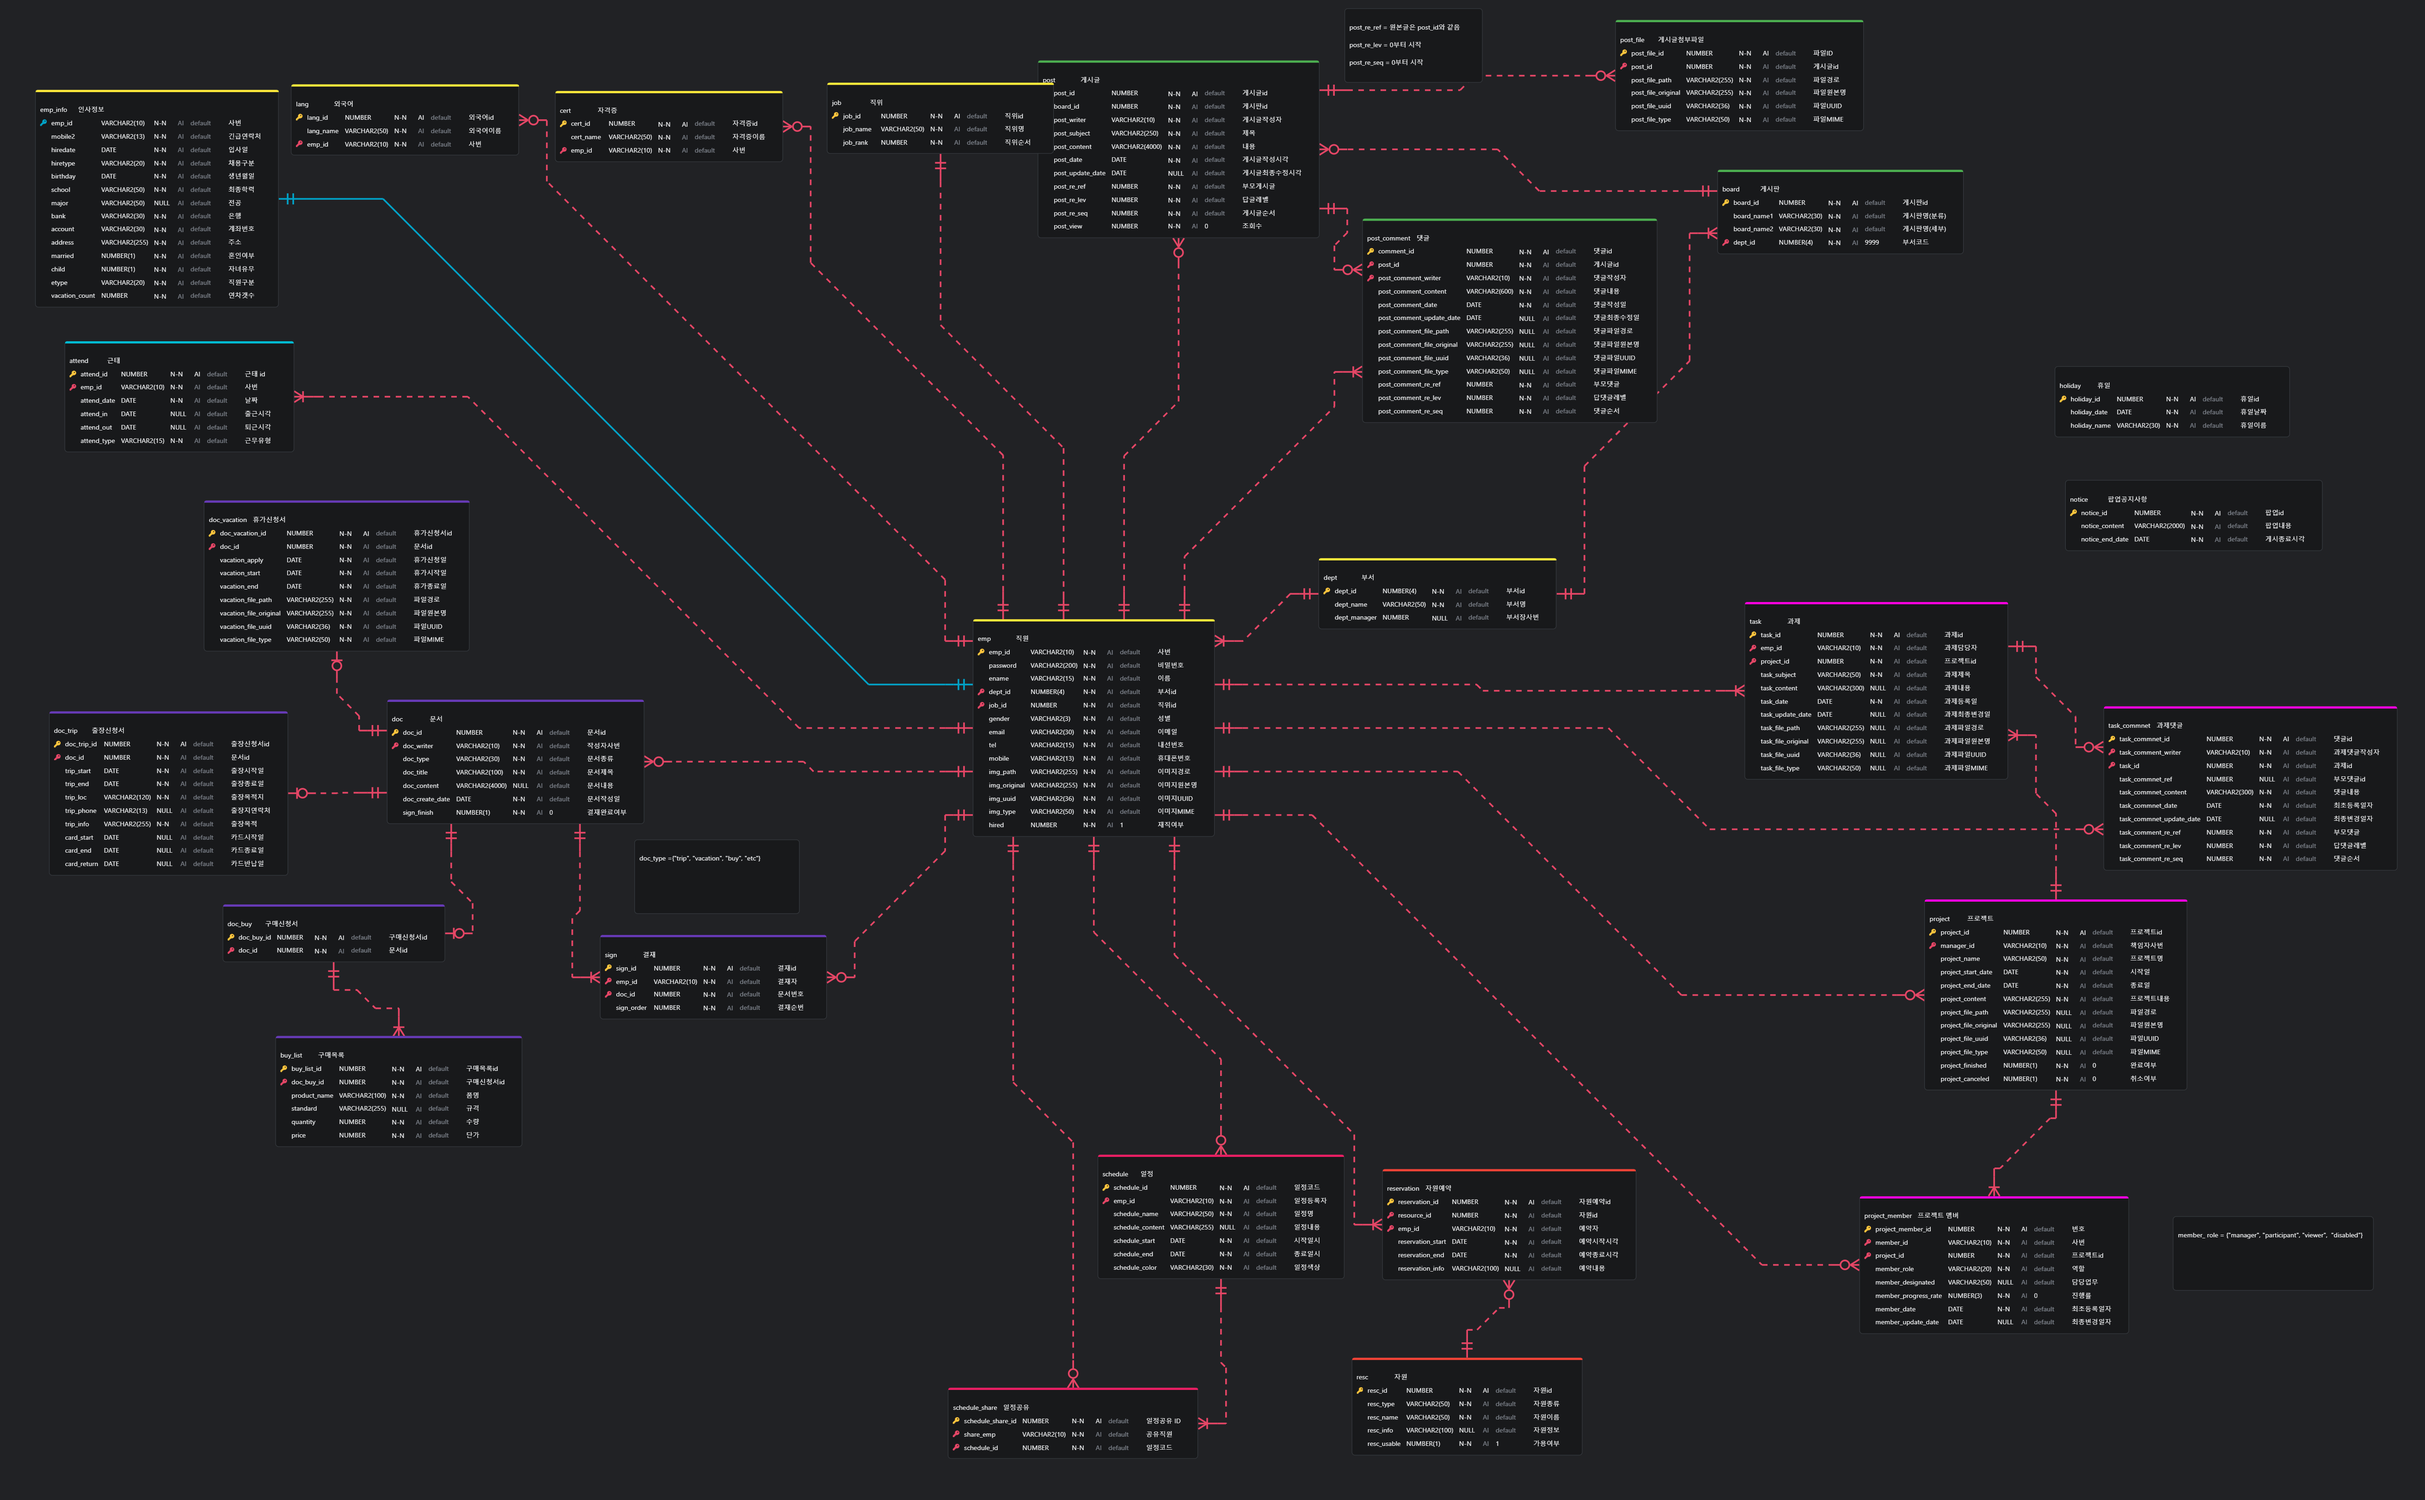
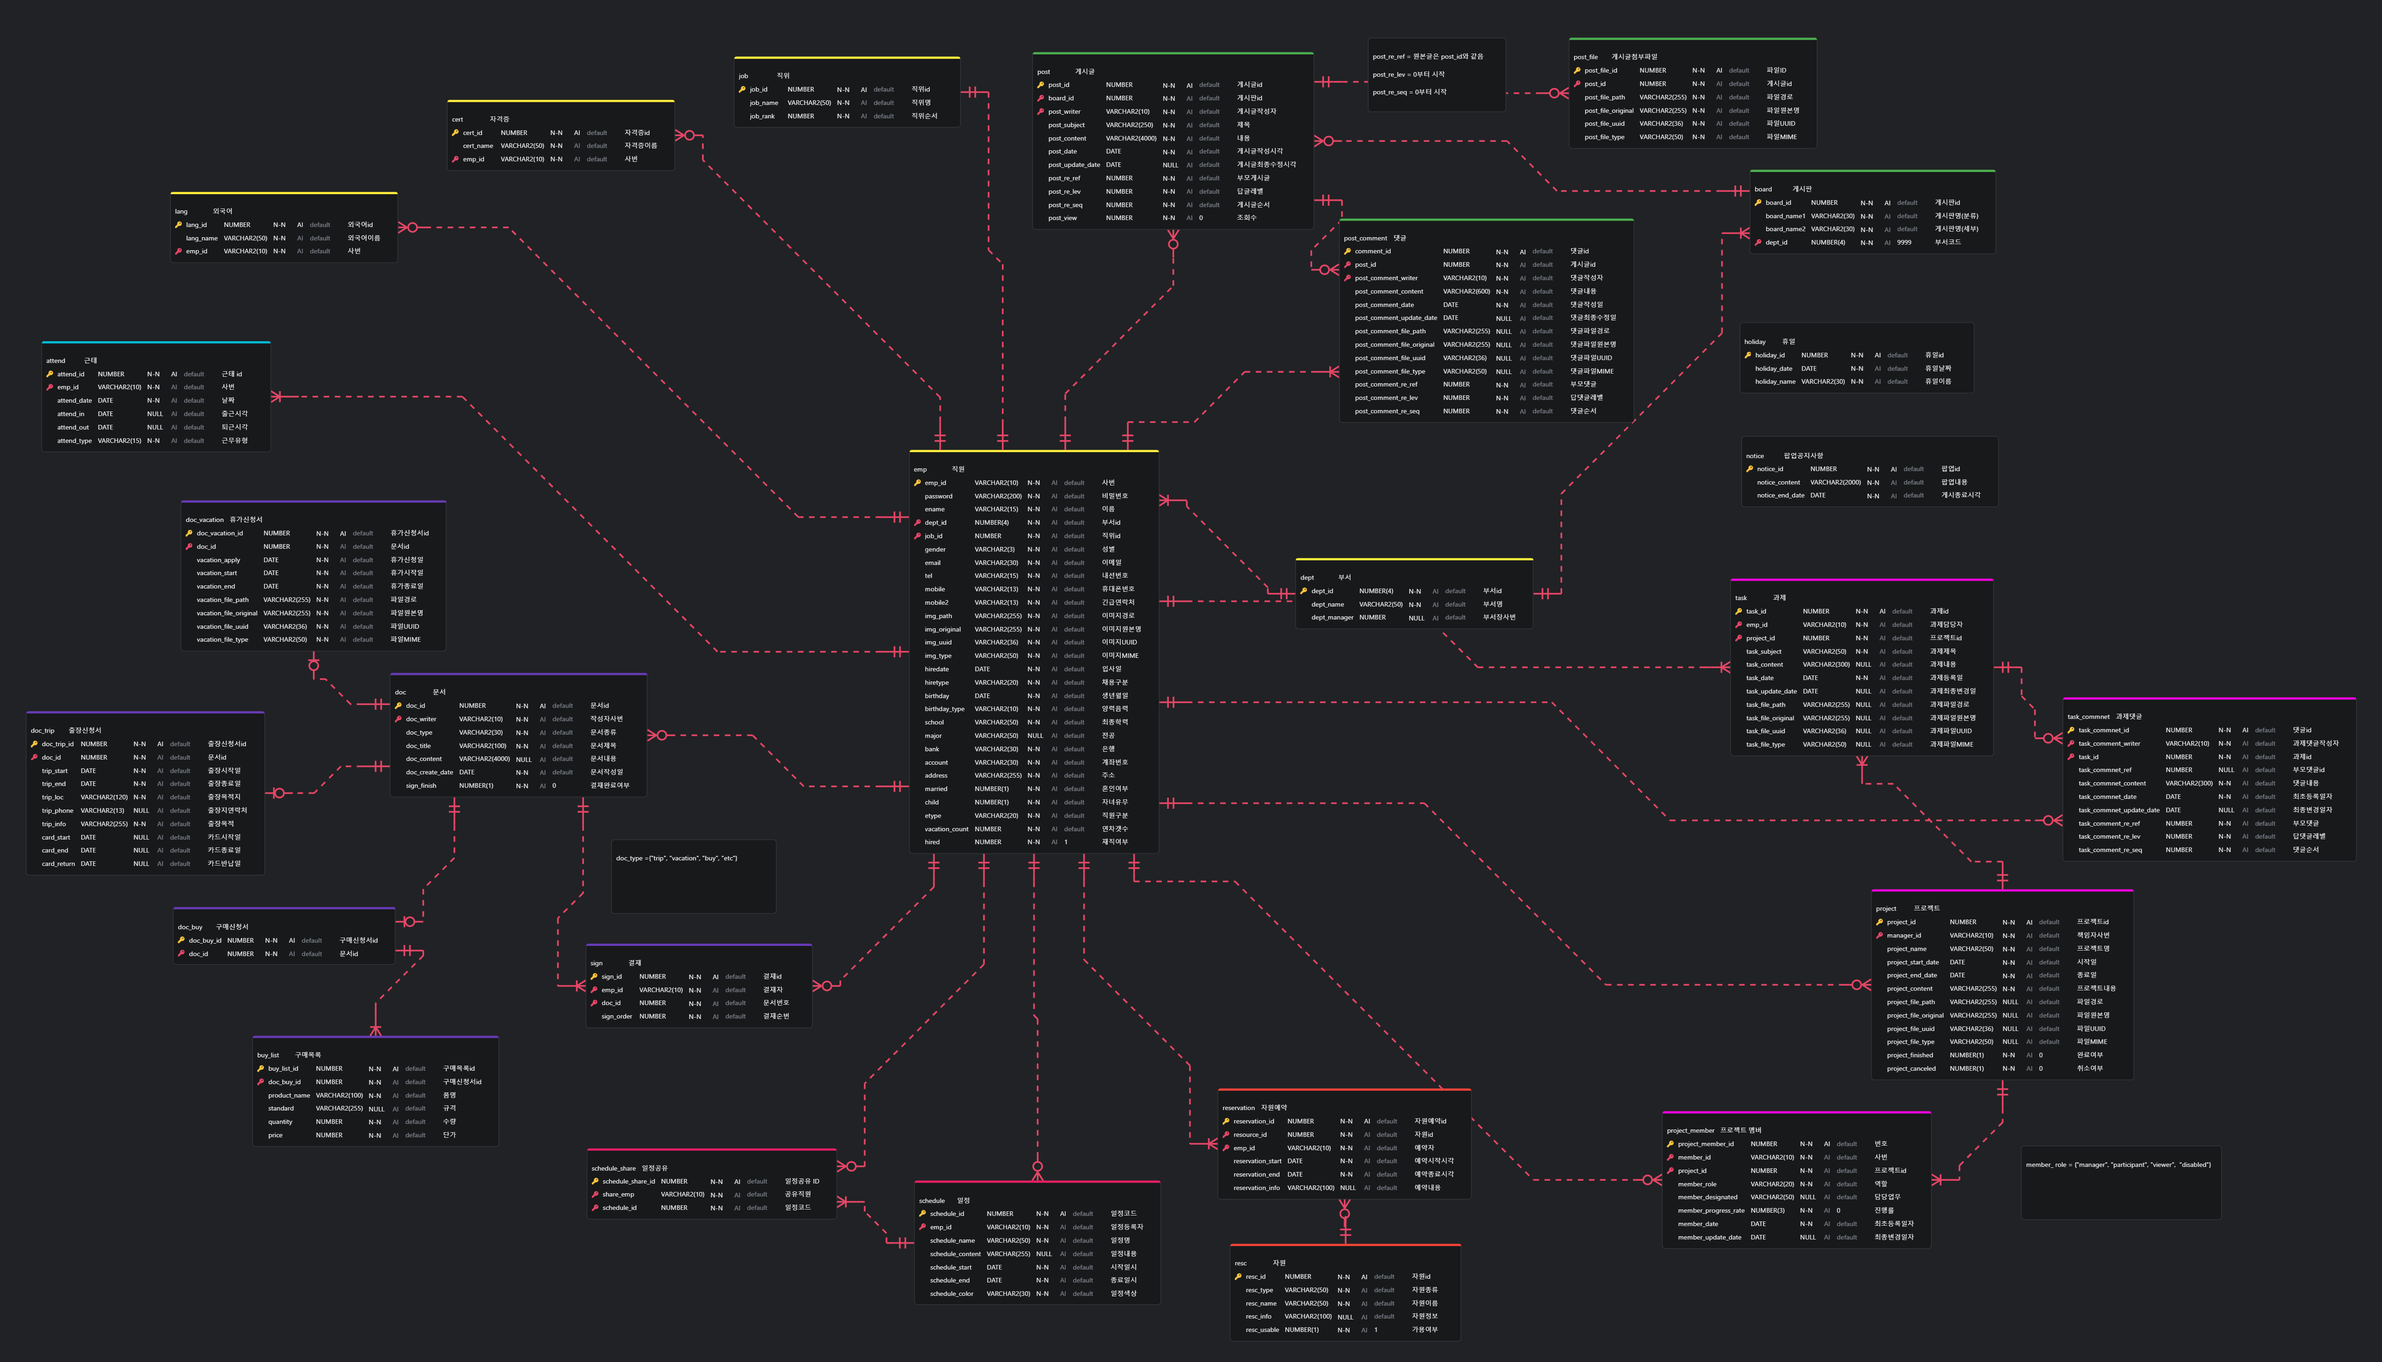
1. camel case 준수(emp.vacation_count -> emp.vacationCount) 2. 출근버튼 경로 오류 수정

diff --git a/src/main/java/com/hta2405/unite/util/AttendUtil.java b/src/main/java/com/hta2405/unite/util/AttendUtil.java
@@ -2,6 +2,7 @@ package com.hta2405.unite.util;
 
 import com.hta2405.unite.action.ActionForward;
 import com.hta2405.unite.dao.AttendDao;
+import com.hta2405.unite.dao.EmpDao;
 import com.hta2405.unite.dao.EmpInfoDao;
 import com.hta2405.unite.dao.HolidayDao;
 import com.hta2405.unite.dto.Attend;
@@ -120,8 +121,26 @@ public class AttendUtil {
     }
 
     public ActionForward getVacationDetail(HttpServletRequest req, Emp targetEmp) {
-        EmpInfo empInfo = new EmpInfoDao().getEmpInfoById(targetEmp.getEmpId());
-//        empInfo.get
-        return new ActionForward(false, "/WEB-INF/views/attend/attendDetail.jsp");
+        int year = Integer.parseInt(req.getParameter("year"));
+        //총 연차 부여일
+        req.setAttribute("allVacCount", targetEmp.getVacationCount());
+
+        //모든 특정 년도 휴가 목록 가져옴
+        List<Attend> vacList = new AttendDao().getYearlyVacationByEmpId(targetEmp.getEmpId(), year);
+
+        //전체 휴가 중 '연차'사용 갯수만 카운트
+        int privateVacCount = 0;
+        for (Attend attend : vacList) {
+            if (attend.getAttendType().equals("연차")) {
+                privateVacCount++;
+            }
+        }
+
+        req.setAttribute("vacList", vacList);
+        System.out.println("vacList = " + vacList);
+        req.setAttribute("givenVacCount", targetEmp.getVacationCount());
+        System.out.println(targetEmp.getVacationCount());
+        req.setAttribute("privateVacCount", privateVacCount);
+        return new ActionForward(false, "/WEB-INF/views/attend/vacationDetail.jsp");
     }
 }

diff --git a/src/main/java/com/hta2405/unite/dao/AttendDao.java b/src/main/java/com/hta2405/unite/dao/AttendDao.java
@@ -9,6 +9,7 @@ import java.sql.*;
 import java.time.LocalDate;
 import java.time.LocalDateTime;
 import java.util.ArrayList;
+import java.util.List;
 
 public class AttendDao {
     private DataSource ds;
@@ -64,6 +65,29 @@ public class AttendDao {
             System.out.println("근태기록 찾기 오류");
         }
         return null;
+    }
+
+
+    public List<Attend> getYearlyVacationByEmpId(String empId, int year) {
+        List<Attend> list = new ArrayList<>();
+        String sql = """
+                SELECT * FROM ATTEND
+                WHERE EMP_ID = ? AND ATTEND_TYPE ='%휴가%'
+                AND EXTRACT(YEAR FROM ATTEND_DATE) = ?
+                """;
+        try (Connection conn = ds.getConnection();
+             PreparedStatement ps = conn.prepareStatement(sql)) {
+            ps.setString(1, empId);
+            ps.setInt(2, year);
+            ResultSet rs = ps.executeQuery();
+            if (rs.next()) {
+                list.add(makeAttend(rs));
+            }
+        } catch (SQLException e) {
+            e.printStackTrace();
+            System.out.println("휴가 목록 가져오기 오류");
+        }
+        return list;
     }
 
     public int attendIn(String empId, String attendType) {

diff --git a/src/main/java/com/hta2405/unite/dao/EmpDao.java b/src/main/java/com/hta2405/unite/dao/EmpDao.java
@@ -153,7 +153,7 @@ public class EmpDao {
             ps.setInt(23, emp.isMarried() ? 1 : 0);
             ps.setInt(24, emp.isChild() ? 1 : 0);
             ps.setString(25, emp.getEtype());
-            ps.setInt(26, emp.getVacation_count());
+            ps.setInt(26, emp.getVacationCount());
             ps.setInt(27, emp.isHired() ? 1 : 0);
             ps.setString(28, emp.getEmpId());
             return ps.executeUpdate();
@@ -185,7 +185,8 @@ public class EmpDao {
                 rs.getDate("birthday").toLocalDate(),
                 rs.getString("birthday_type"),
                 rs.getString("school"),
-                rs.getString("major"),
+                rs.getString("major") == null ?
+                        null : rs.getString("major"),
                 rs.getString("bank"),
                 rs.getString("account"),
                 rs.getString("address"),

diff --git a/src/main/java/com/hta2405/unite/action/AttendVacationDetailAction.java b/src/main/java/com/hta2405/unite/action/AttendVacationDetailAction.java
@@ -8,12 +8,16 @@ import jakarta.servlet.http.HttpServletRequest;
 import jakarta.servlet.http.HttpServletResponse;
 
 import java.io.IOException;
+import java.time.LocalDate;
 
 public class AttendVacationDetailAction implements Action {
     @Override
     public ActionForward execute(HttpServletRequest req, HttpServletResponse resp) throws ServletException, IOException {
         String empId = (String) req.getSession().getAttribute("id");
         Emp emp = new EmpDao().getEmpById(empId);
+        if (req.getParameter("year") == null) {
+            return new ActionForward(false, "/attend/vacation/my?&year=" + LocalDate.now().getYear());
+        }
         return new AttendUtil().getVacationDetail(req, emp);
     }
 }

diff --git a/src/main/java/com/hta2405/unite/dao/EmpInfoDao.java b/src/main/java/com/hta2405/unite/dao/EmpInfoDao.java
@@ -83,7 +83,7 @@ public class EmpInfoDao {
 				empInfo.setImgType(rs.getString("img_type"));
 
 				Dept dept = new Dept();
-				dept.setDeptName(rs.getString("dept_name"));
+				dept.setDname(rs.getString("dept_name"));
 				empInfo.setDept(dept);
 
 				Job job = new Job();

diff --git a/src/main/java/com/hta2405/unite/dto/Emp.java b/src/main/java/com/hta2405/unite/dto/Emp.java
@@ -36,6 +36,6 @@ public class Emp {
     private boolean married;
     private boolean child;
     private String etype;
-    private int vacation_count;
+    private int vacationCount;
     private boolean hired;
 }
